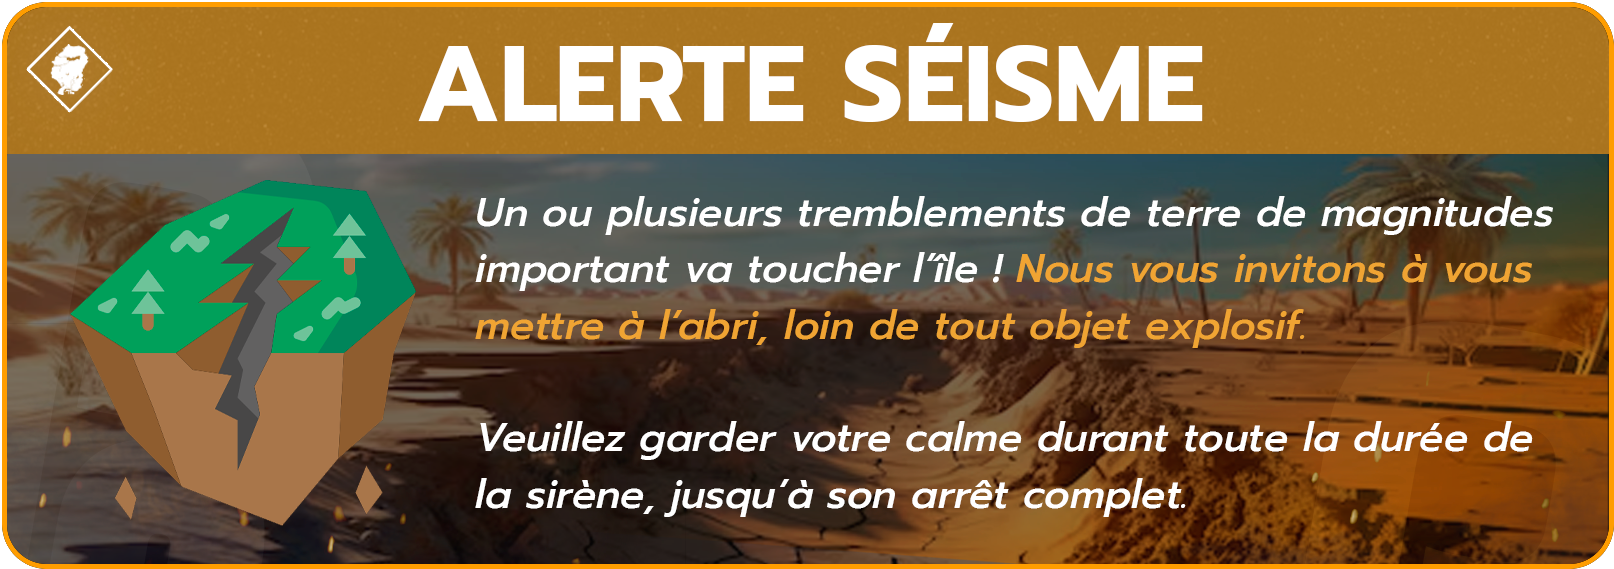
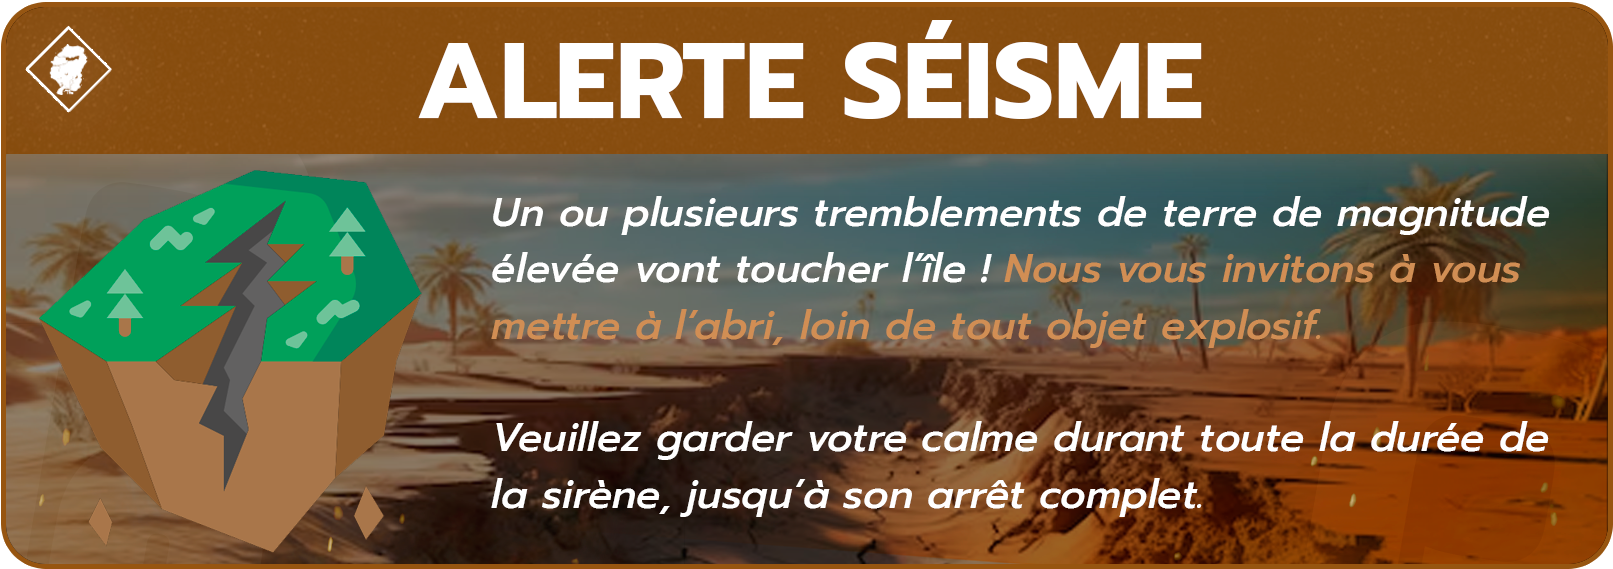
Alertes inondation + Fix

diff --git a/resources/[soz]/soz-core/src/nui/components/Hud/NewsBanner.tsx b/resources/[soz]/soz-core/src/nui/components/Hud/NewsBanner.tsx
@@ -90,7 +90,9 @@ const Banner: FunctionComponent<BannerProps> = ({ index, news, onDelete }) => {
             break;
         case 'earthquake':
             backgroundImage = '/public/images/twitch-news/earthquake.webp';
-
+            break;
+        case 'flood':
+            backgroundImage = '/public/images/twitch-news/flood.webp';
             break;
         default:
             if (news.job === JobType.YouNews) {
@@ -112,34 +114,36 @@ const Banner: FunctionComponent<BannerProps> = ({ index, news, onDelete }) => {
             }}
         >
             <h3 className="flex h-[25%] justify-end text-4xl items-center pr-4 uppercase">
-                {!['sandstorm', 'earthquake'].includes(news.type) && newsTitle(news.type)}
+                {!['sandstorm', 'earthquake', 'flood'].includes(news.type) && newsTitle(news.type)}
             </h3>
-            <div className="pl-[28%] h-[62%] text-[0.91rem] lg:text-lg">
-                {['lspd', 'bcso', 'sasp'].includes(news.type) ? (
-                    <p className="flex flex-col justify-between p-2 h-full overflow-hidden break-words">
-                        <p>
-                            Les forces de l'ordre sont à la recherche de <strong>{news.message}</strong>.
+            {!['flood', 'earthquake', 'sandstorm'].includes(news.type) && (
+                <div className="pl-[28%] h-[62%] text-[0.91rem] lg:text-lg">
+                    {['lspd', 'bcso', 'sasp'].includes(news.type) ? (
+                        <p className="flex flex-col justify-between p-2 h-full overflow-hidden break-words">
+                            <p>
+                                Les forces de l'ordre sont à la recherche de <strong>{news.message}</strong>.
+                            </p>
+                            <p>
+                                Si vous avez des informations sur cette personne, veuillez les communiquer au{' '}
+                                <strong style={{ textTransform: 'uppercase' }}>555-{news.type}</strong>.
+                            </p>
                         </p>
-                        <p>
-                            Si vous avez des informations sur cette personne, veuillez les communiquer au{' '}
-                            <strong style={{ textTransform: 'uppercase' }}>555-{news.type}</strong>.
-                        </p>
-                    </p>
-                ) : (
-                    <>
-                        {!news.type.includes('reboot') && (
-                            <div className="flex flex-col justify-between p-1 h-full">
-                                <p className="max-h-40 overflow-hidden break-words text-[1.35vh]">{news.message}</p>
-                                {news.reporter && (
-                                    <p className="text-right pr-4 text-lg">
-                                        {authorType} <strong>{news.reporter}</strong>
-                                    </p>
-                                )}
-                            </div>
-                        )}
-                    </>
-                )}
-            </div>
+                    ) : (
+                        <>
+                            {!news.type.includes('reboot') && (
+                                <div className="flex flex-col justify-between p-1 h-full">
+                                    <p className="max-h-40 overflow-hidden break-words text-[1.35vh]">{news.message}</p>
+                                    {news.reporter && (
+                                        <p className="text-right pr-4 text-lg">
+                                            {authorType} <strong>{news.reporter}</strong>
+                                        </p>
+                                    )}
+                                </div>
+                            )}
+                        </>
+                    )}
+                </div>
+            )}
         </div>
     );
 };

diff --git a/resources/[soz]/soz-core/src/client/world/meteor.provider.ts b/resources/[soz]/soz-core/src/client/world/meteor.provider.ts
@@ -453,7 +453,7 @@ export class MeteorProvider {
                 type: 'sandstorm',
                 reporterId: '',
                 job: '',
-                message: '',
+                message: `Alerte Tempête - Une épaisse tempête de sable va fouetter l'entiereté de l'île dans les prochaines minutes. Nous vous invitons à protéger votre visage du sable.`,
             }
         );
     }
@@ -467,7 +467,22 @@ export class MeteorProvider {
                 type: 'earthquake',
                 reporterId: '',
                 job: '',
-                message: '',
+                message: `Alerte Séisme - Un ou plusieurs tremblements de terre de magnitude élevée vont toucher l'île. Nous vous invitons à vous mettre à l'abri, loin de tout objet explosif.`,
+            }
+        );
+    }
+
+    @OnNuiEvent(NuiEvent.AdminMenuFloodFlash)
+    public async floodFlash() {
+        TriggerServerEvent(
+            ServerEvent.PHONE_APP_NEWS_CREATE_BROADCAST,
+            'phone:app:news:createNewsBroadcast:' + uuidv4(),
+            {
+                type: 'flood',
+                reporterId: '',
+                job: '',
+                message:
+                    'Alerte Inondation - Suite à de fortes pluies, une importante montée des eaux à été détéctée. Nous vous invitons à éviter les endroits à risques.',
             }
         );
     }

diff --git a/resources/[soz]/soz-core/src/nui/components/Admin/MeteorSubMenu.tsx b/resources/[soz]/soz-core/src/nui/components/Admin/MeteorSubMenu.tsx
@@ -167,6 +167,13 @@ export const MeteorSubMenu: FunctionComponent<MeteorSubMenuProps> = ({ banner, s
                 >
                     Tempête de sable
                 </MenuItemButton>
+                <MenuItemButton
+                    onConfirm={async () => {
+                        await fetchNui(NuiEvent.AdminMenuFloodFlash, false);
+                    }}
+                >
+                    Inondation
+                </MenuItemButton>
             </MenuContent>
         </SubMenu>
     );

diff --git a/resources/[soz]/soz-core/src/shared/event/nui.ts b/resources/[soz]/soz-core/src/shared/event/nui.ts
@@ -108,6 +108,7 @@ export enum NuiEvent {
     AdminMenuEarthquake = 'soz-core:nui:admin:earthquake',
     AdminMenuEarthquakeFlash = 'soz-core:nui:admin:earthquake-flash',
     AdminMenuSandstormFlash = 'soz-core:nui:admin:sandstorm-flash',
+    AdminMenuFloodFlash = 'soz-core:nui:admin:flood-flash',
 
     GetAPIConfig = 'soz-core:nui:get-api-config',
     GetJWTToken = 'soz-core:nui:get-jwt-token',
